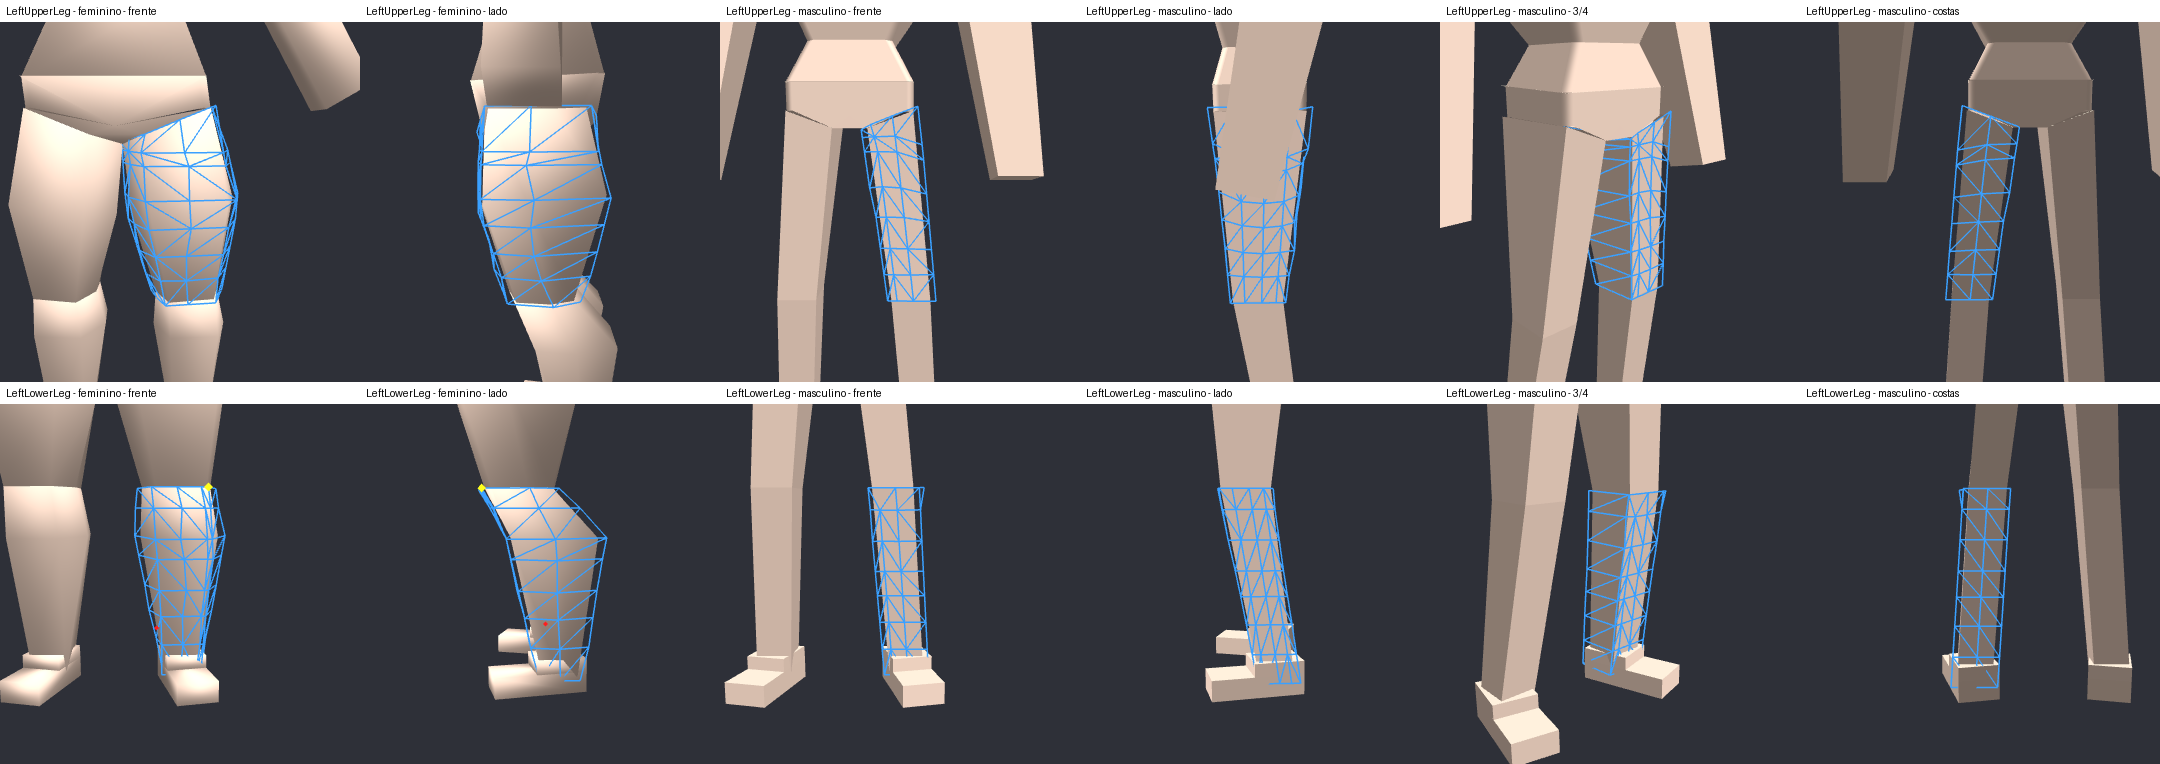
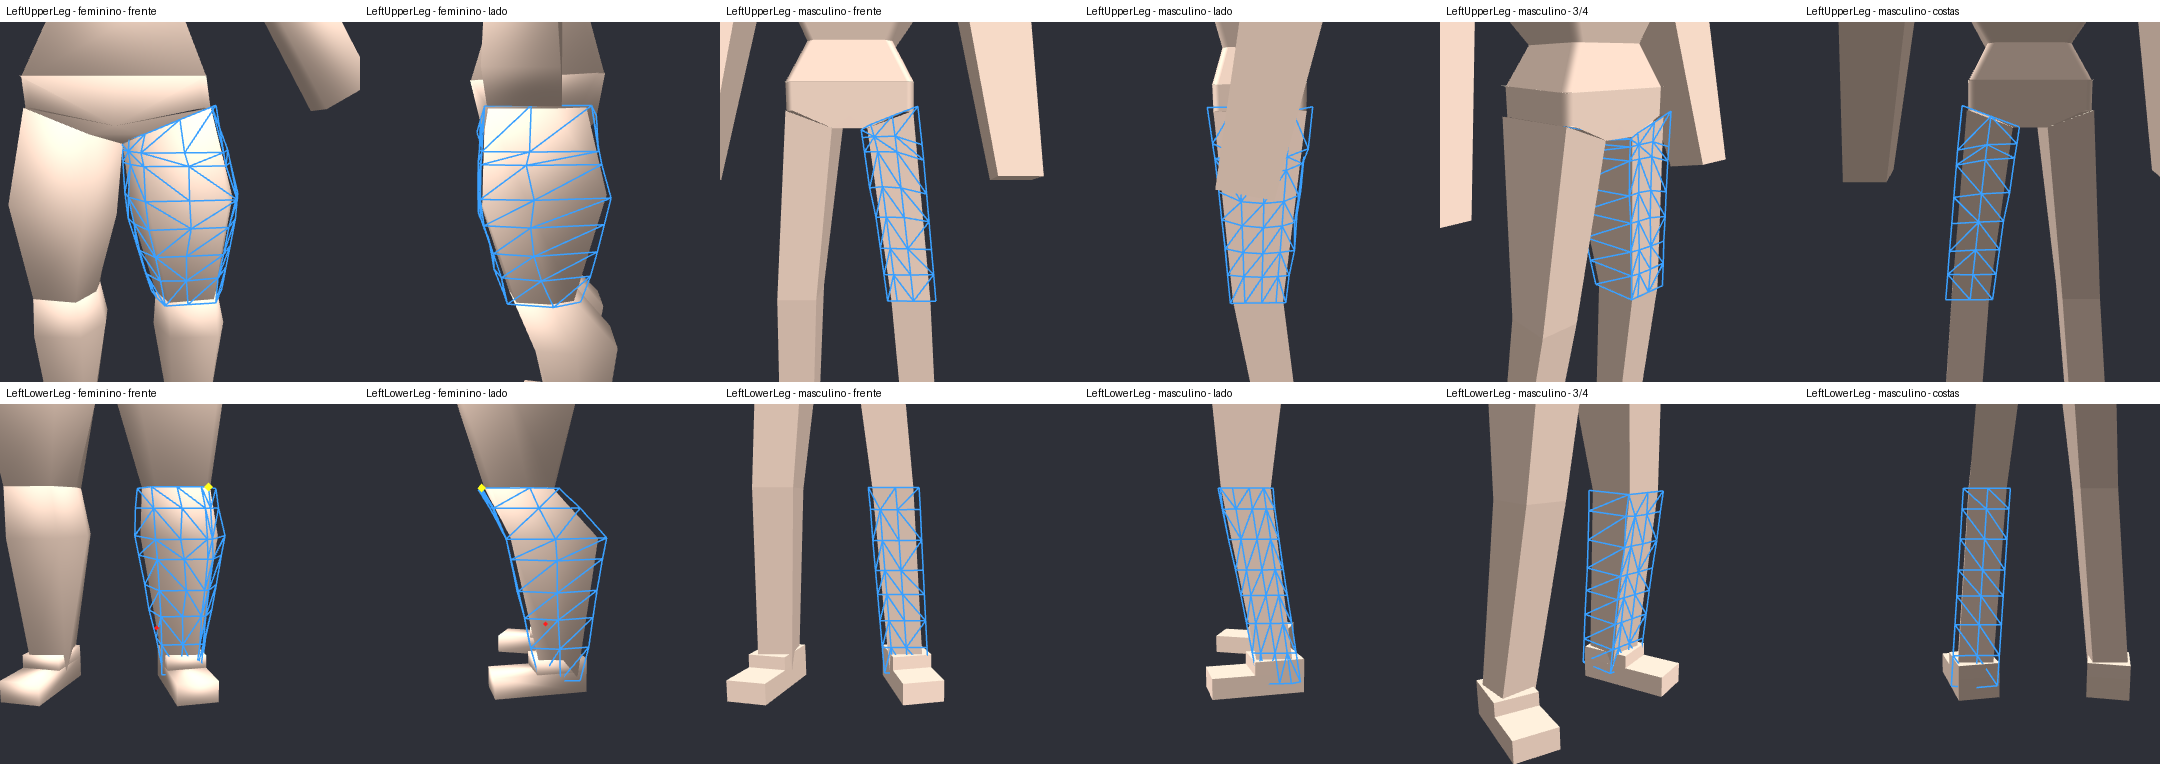
fix(clothing): sem ponta na frente do joelho da cage masculina
Um ponto do anel do joelho da canela (quina da frente, por fora) não tem par
na coxa, então a costura não o alinhava e ele ficava 1 cm para fora do anel
(2,2 cm da pele). Depois da costura, os pontos do anel do joelho da canela
sem par são limitados ao contorno do anel da coxa; os compartilhados
continuam com a posição da coxa (costura 0 mm).

Canelas: distância máx à pele 2,2 -> 1,7 cm; 0 colisões.

diff --git a/scripts/build_male_cage.py b/scripts/build_male_cage.py
@@ -771,7 +771,7 @@ def main():
     OUT.mkdir(parents=True, exist_ok=True)
     engine = RobloxWearEngine(body_type="female")
     report = {}
-    knee_rings = {}
+    knee_rings, knee_rows = {}, {}
     for part, groups in PARTS.items():
         cage = engine_to_body_mesh(np.asarray(engine.r15_female_cages[part]["verts"], dtype=np.float64))
         cage_faces = np.asarray(engine.r15_female_cages[part]["faces"])
@@ -793,6 +793,8 @@ def main():
                                                 female_rings=open_edge_planes(cage, cage_faces) if thigh else None)
             if part.endswith("UpperLeg"):
                 knee_rings[part.replace("UpperLeg", "")] = (rings[0], _source_rings(cage)[0])
+                knee_rows[part.replace("UpperLeg", "")] = male_cage[cage[:, UP] < cage[:, UP].min() + 0.003]
+
         elif part in SAME_AS_FEMALE:
             male_cage = cage.copy()
         elif part in EDGE_LOOPS:
@@ -830,6 +832,16 @@ def main():
             for i, position in seam_points.items():
                 male_cage[i] = position
                 fixed[i] = True
+        if part.endswith("LowerLeg"):
+            # Knee ring points of the calf with no twin on the thigh (a front corner) are
+            # clamped to the thigh's knee row outline, after the seam correction, so the
+            # ring stays one clean loop.
+            row = knee_rows[part.replace("LowerLeg", "")]
+            on_knee = cage[:, UP] > cage[:, UP].max() - 0.003
+            on_knee[list(seam_points)] = False  # the shared knee points keep the thigh's position
+            for axis in (0, 2):
+                male_cage[on_knee, axis] = np.clip(male_cage[on_knee, axis], row[:, axis].min(), row[:, axis].max())
+            fixed |= on_knee
         if part in COLLARS:
             collar, base = (groups.index(g) for g in COLLARS[part])
             male_cage, fixed = move_collar(cage, male_cage, female_groups[collar], male_groups[collar],
